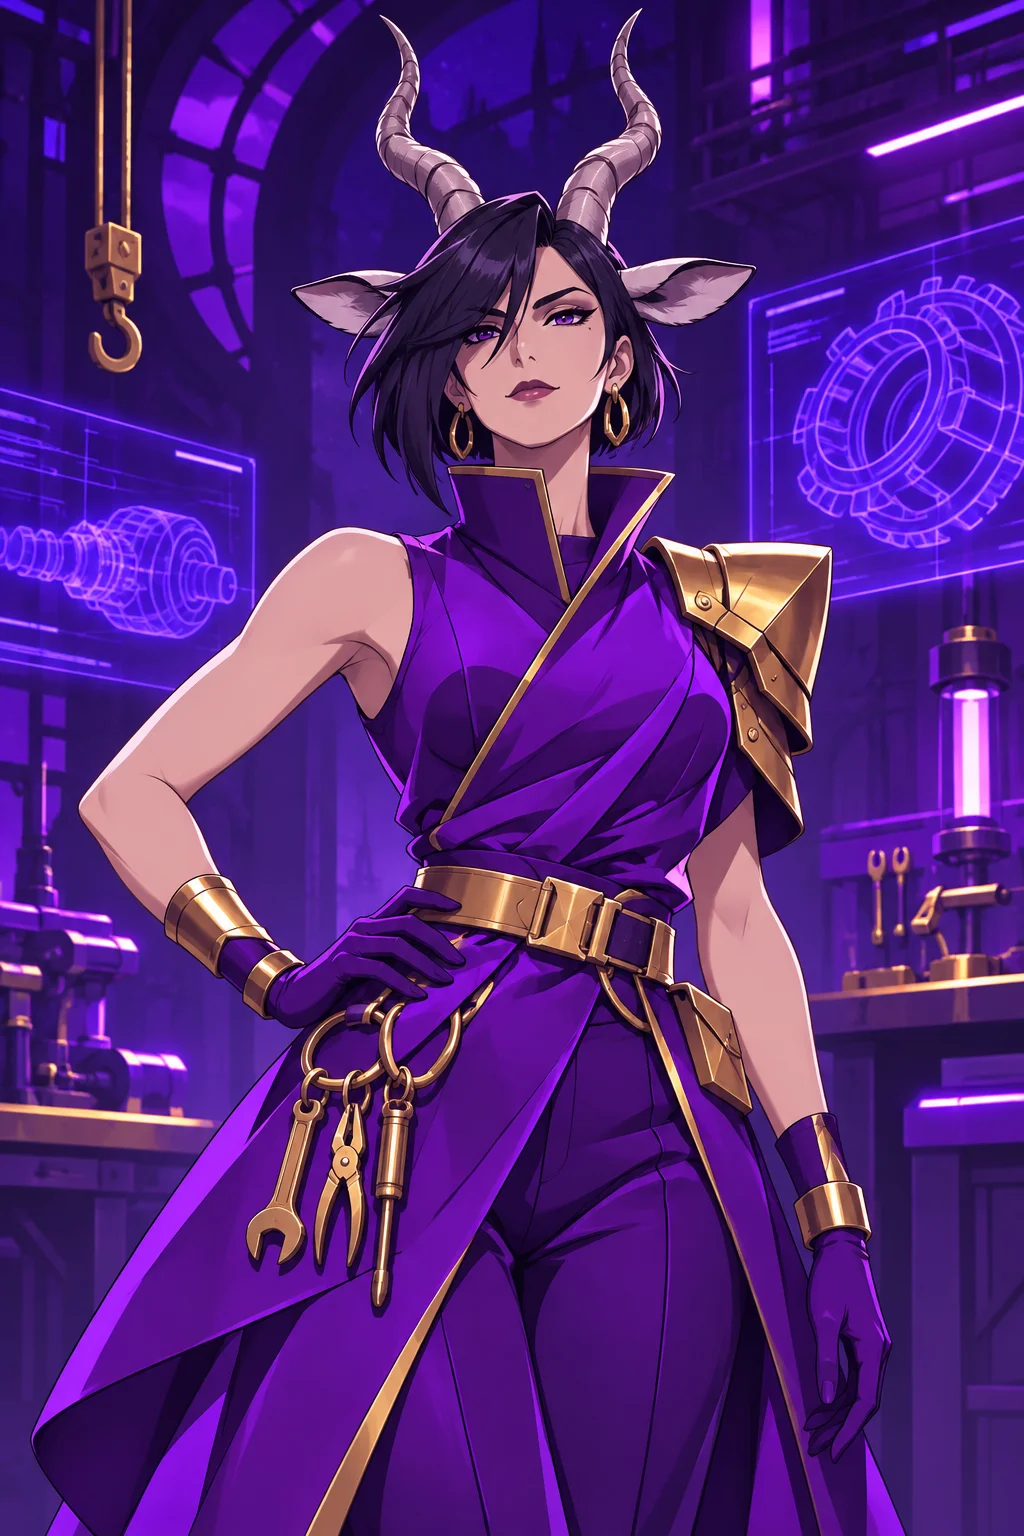
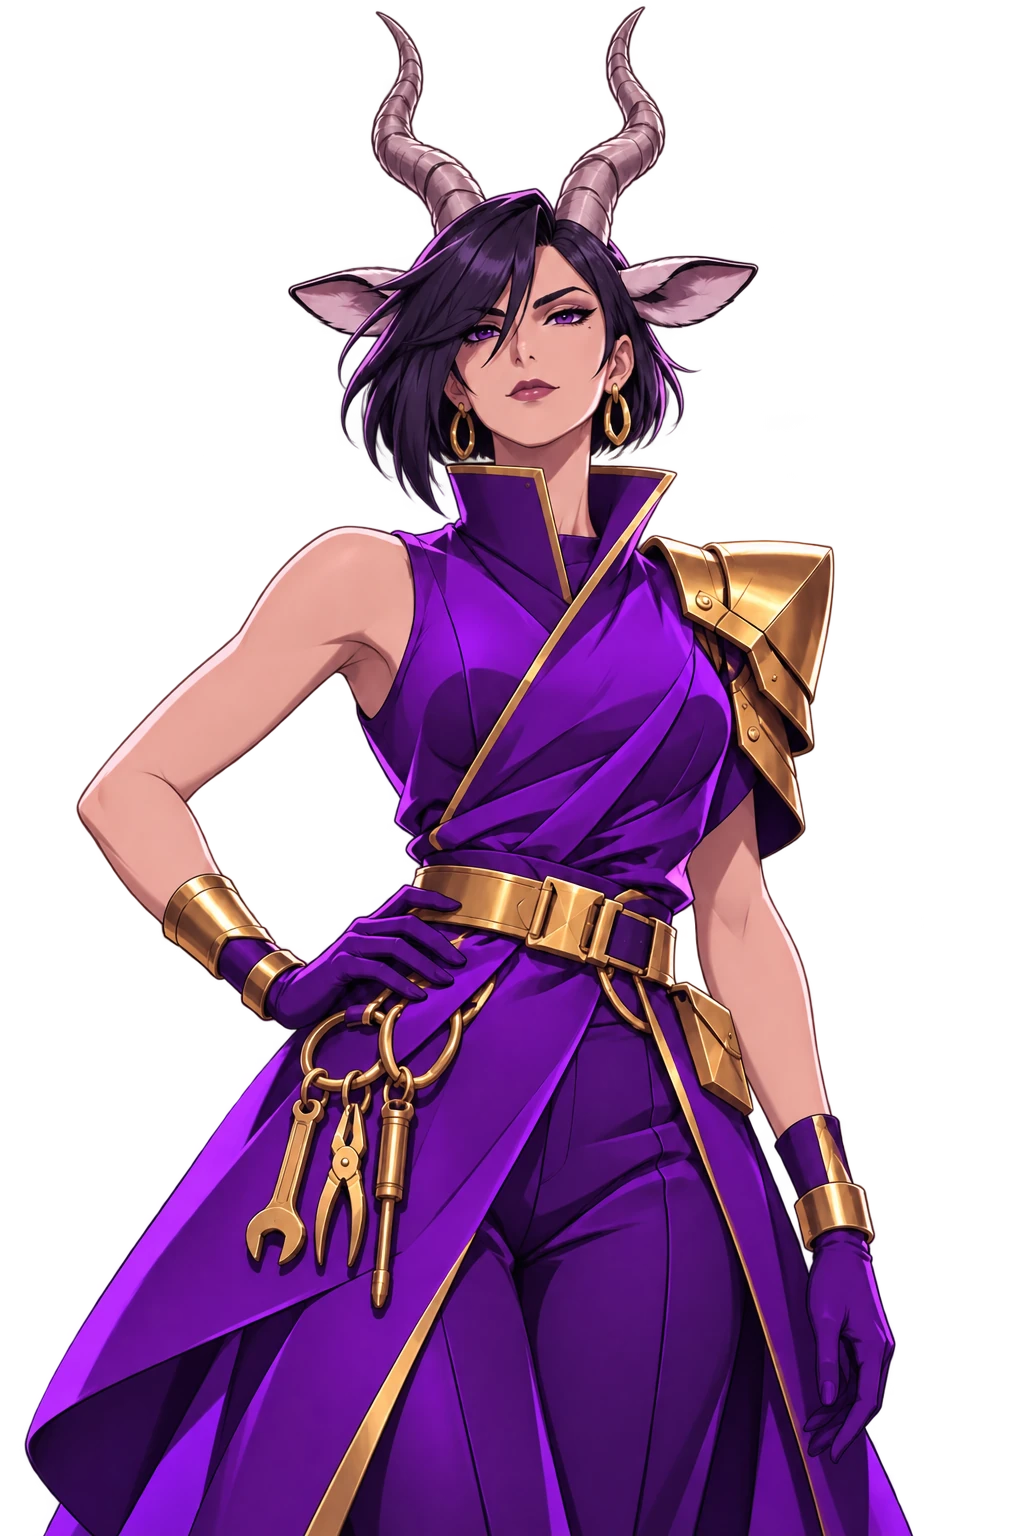
Share the Emberwell backdrop across Relay portraits

diff --git a/frontier/client/style.css b/frontier/client/style.css
@@ -107,5 +107,8 @@ dialog img { width: 100%; height: clamp(14rem, 67vh, 36rem); object-fit: cover; 
 #crew-roster { display: flex; flex-wrap: wrap; gap: .35rem; }
 #crew-odds { font-size: .9rem; color: var(--dim); }
 #crew-result { min-height: 1.45rem; color: var(--mint); }
-#crew-portrait { object-fit: contain; background: #171719; }
+#crew-portrait {
+  object-fit: contain;
+  background: #292728 url('./portraits/relay-backdrop.webp') center / cover no-repeat;
+}
 #crew-dialog[data-rank="S"] { border-color: #b6a6e2; }

diff --git a/ASSETS_LICENSE.md b/ASSETS_LICENSE.md
@@ -2,6 +2,6 @@
 
 The MIT License grants rights to Deeesss's source code and associated software documentation. The NEKOS and NEKOS Mining names, standalone logos, character designs and original media are reserved to their respective rights holders. The MIT License provides no trademark grant.
 
-The generated Frontier portrait set in `frontier/client/portraits/` contains the two stewards, their Duskwear outfits, Commander Iona and the three Frontier Relay specialists Nim, Varren and Mira Vesper. The portrait files are distributed for use in the game under these asset terms. The Phaser maps use source-code-rendered pixel art. The earlier wallet prototype uses a landscape drawn in CSS. The original 2024 image files are absent from this repository.
+The generated Frontier portrait set in `frontier/client/portraits/` contains the two stewards, their Duskwear outfits, Commander Iona and the three Frontier Relay specialists Nim, Varren and Mira Vesper. The Relay portraits use a shared Emberwell backdrop. The portrait files are distributed for use in the game under these asset terms. The Phaser maps use source-code-rendered pixel art. The earlier wallet prototype uses a landscape drawn in CSS. The original 2024 image files are absent from this repository.
 
 Dependencies and their bundled materials remain under their respective licenses.
